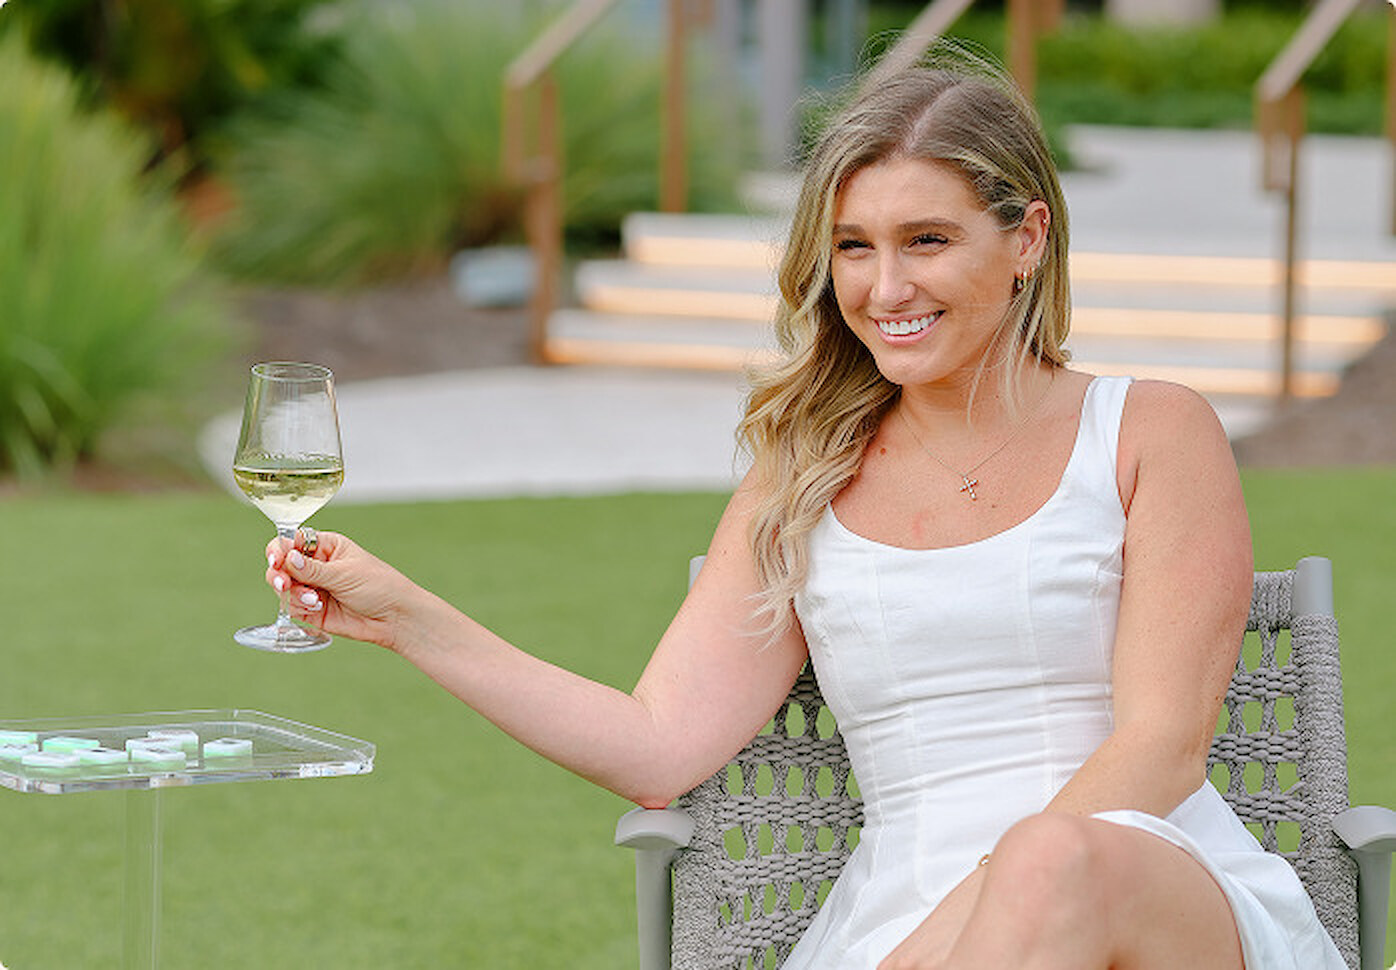
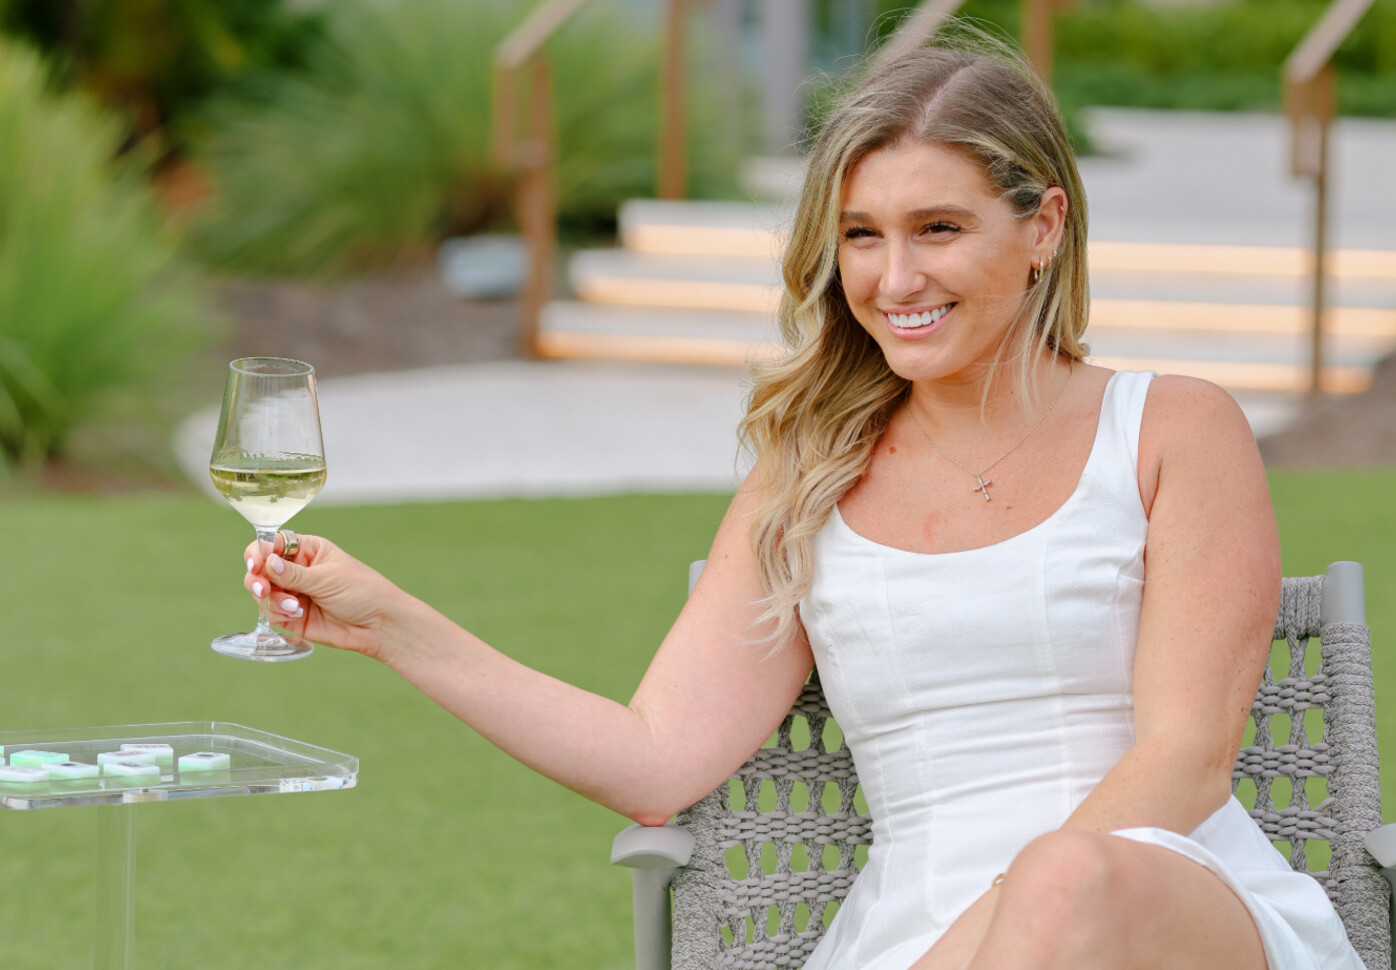
Mahj & Away: replace the 'videos created' feature photo
Swap the garden-terrace photo in the "20 videos created" section with the
supplied image (extracted from the provided SVG, zoom-cropped to remove the
baked-in rounded corners, 1396x970). Cache-bust the src.

Claude-Session: https://claude.ai/code/session_01QsVH8b9P2x4XotyHbJRqsD

diff --git a/portfolio/mahj-and-away/index.html b/portfolio/mahj-and-away/index.html
@@ -84,7 +84,7 @@
     </div>
 
     <div class="gs-grp gs-gal4">
-      <img class="gs-img-booth" src="../../media/images/portfolio/mahj-and-away/feature.jpg" alt="A guest in a white dress holding a glass of wine on a garden terrace">
+      <img class="gs-img-booth" src="../../media/images/portfolio/mahj-and-away/feature.jpg?v=2" alt="A guest in a white dress raising a glass of white wine beside a mahjong tray on a garden lawn">
       <div class="gs-phone gs-phone-2 gs-phone-video"><video src="../../media/video/mahj-and-away-reel-2.mp4" poster="../../media/video/mahj-and-away-reel-2-poster.jpg" autoplay loop muted playsinline preload="metadata" aria-label="Mahj and Away October reel"></video><img class="gs-phone-frame" src="../../media/images/portfolio/mahj-and-away/phone-frame.png?v=2" alt="" aria-hidden="true"><button class="gs-mute" type="button" aria-label="Unmute video"><svg class="gs-ic gs-ic-muted" viewBox="0 0 24 24" aria-hidden="true"><path fill="currentColor" d="M4 9v6h3.5L12 19V5L7.5 9H4z"/><path d="M15.5 9l5 6m0-6l-5 6" stroke="currentColor" stroke-width="2" fill="none" stroke-linecap="round"/></svg><svg class="gs-ic gs-ic-sound" viewBox="0 0 24 24" aria-hidden="true"><path fill="currentColor" d="M4 9v6h3.5L12 19V5L7.5 9H4z"/><path d="M15.5 8.6a5 5 0 0 1 0 6.8M17.9 6.3a8 8 0 0 1 0 11.4" stroke="currentColor" stroke-width="2" fill="none" stroke-linecap="round"/></svg></button></div>
       <p class="gs-stat gs-stat-videos"><strong>20</strong><img class="gs-stat-lbl gs-lbl-videos" src="../../media/images/stat-labels/mahj/videos-created.svg" alt="videos created"></p>
     </div>
